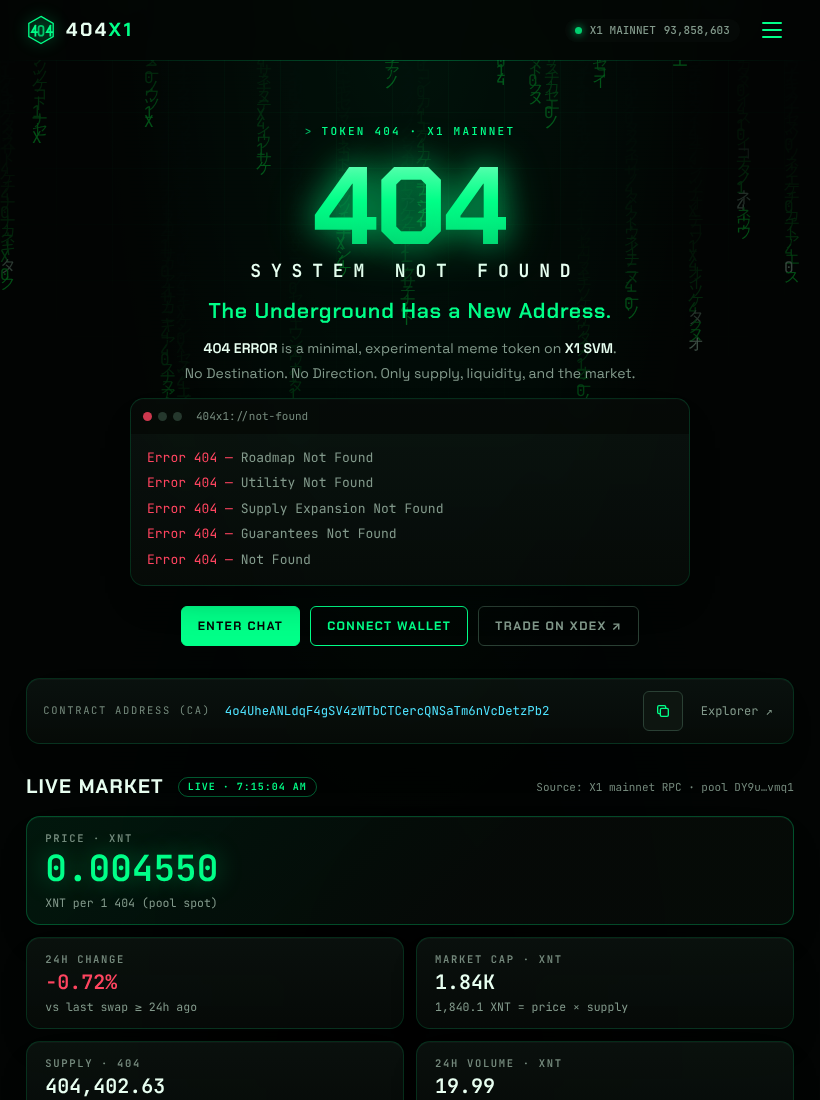
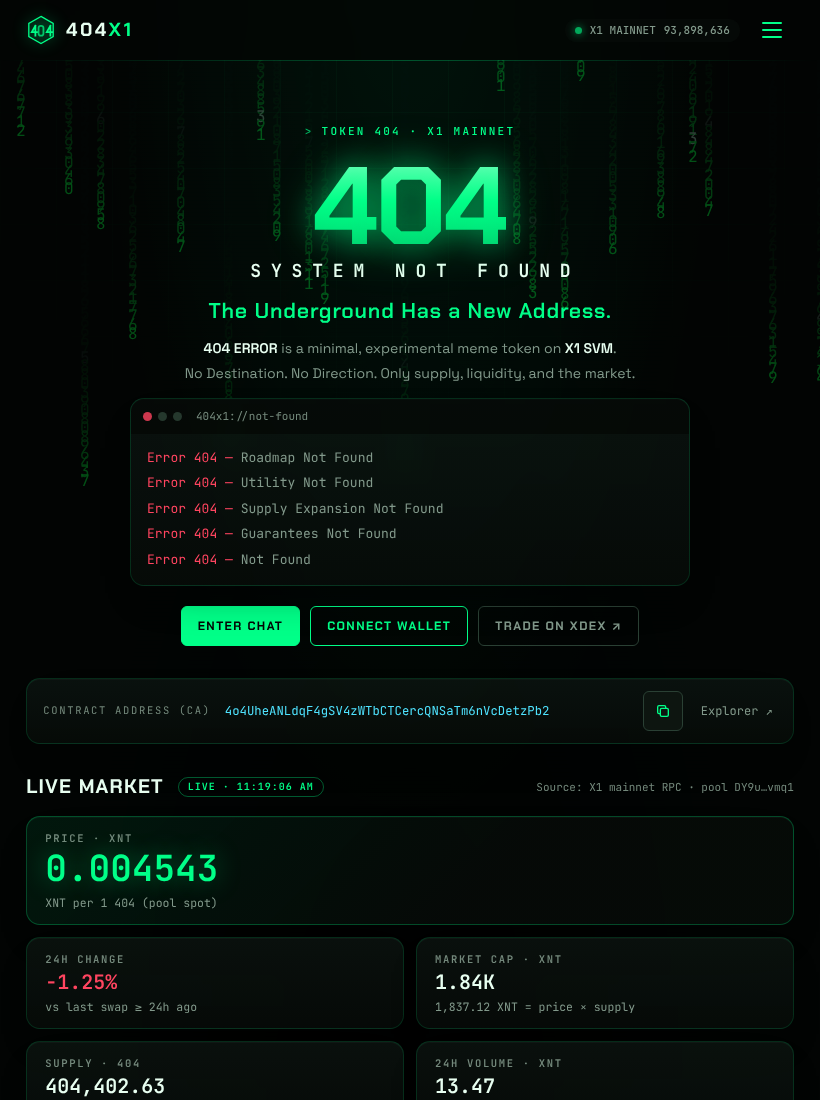
Matrix rain: English numerals 0-9 only; guard chart resize after unmount
- Rain glyphs now exclusively 0123456789, randomized per column step
- Colors, glow, opacity, speed, density, fps cap, reduced-motion unchanged
- Add rain glyph unit tests
- PriceChart: null-guard ResizeObserver callback (intermittent error found by responsive suite)

Claude-Session: https://claude.ai/code/session_01Ec5YrfoHXkQx3fjewP7eCL

diff --git a/tests/rain.test.js b/tests/rain.test.js
@@ -1,0 +1,14 @@
+import { describe, it, expect } from 'vitest';
+import { RAIN_GLYPHS, randomGlyph } from '../src/lib/rainGlyphs.js';
+describe('matrix rain glyphs', () => {
+  it('contains exactly the English numerals 0-9', () => expect(RAIN_GLYPHS).toBe('0123456789'));
+  it('every random glyph is a single digit, and all digits occur', () => {
+    const seen = new Set();
+    for (let i = 0; i < 5000; i++) { const g = randomGlyph(); expect(g).toMatch(/^[0-9]$/); seen.add(g); }
+    expect(seen.size).toBe(10);
+  });
+  it('rain source contains no non-ASCII glyph literals', async () => {
+    const { readFileSync } = await import('node:fs');
+    expect(readFileSync(new URL('../src/components/MatrixRain.jsx', import.meta.url), 'utf8')).not.toMatch(/[^\x00-\x7F]/);
+  });
+});

diff --git a/src/components/chart/PriceChart.jsx b/src/components/chart/PriceChart.jsx
@@ -35,7 +35,7 @@ export default function PriceChart({ trades, tf, showVol, onHover }) {
         onHoverRef.current?.({ o: d.open, h: d.high, l: d.low, c: d.close, v: c?.volume ?? 0, trades: c?.trades ?? 0 });
       } else onHoverRef.current?.(null);
     });
-    const ro = new ResizeObserver(() => chart.applyOptions({ width: el.current.clientWidth, height: el.current.clientHeight }));
+    const ro = new ResizeObserver(() => { const node = el.current; if (node) chart.applyOptions({ width: node.clientWidth, height: node.clientHeight }); }); // guard: may fire after unmount
     ro.observe(el.current);
     return () => { ro.disconnect(); chart.remove(); chartRef.current = candleRef.current = volRef.current = null; };
   }, []);

diff --git a/src/components/MatrixRain.jsx b/src/components/MatrixRain.jsx
@@ -1,6 +1,6 @@
 import React, { useEffect, useRef } from 'react';
+import { randomGlyph } from '@/lib/rainGlyphs';
 
-const GLYPHS = '01アイウエオカキクケコサシスセソタチツテトナニヌネノ404X1';
 
 /**
  * Lightweight procedural Matrix code rain on one <canvas>.
@@ -35,7 +35,7 @@ export default function MatrixRain() {
       for (let i = 0; i < cols; i++) {
         const x = i * size * step, y = drops[i] * size;
         ctx.fillStyle = Math.random() > 0.97 ? '#c8ffe2' : '#00ff41';
-        ctx.fillText(GLYPHS[(Math.random() * GLYPHS.length) | 0], x, y);
+        ctx.fillText(randomGlyph(), x, y);
         if (y > h && Math.random() > 0.975) drops[i] = 0; else drops[i] += 0.55;
       }
     };

diff --git a/src/lib/rainGlyphs.js b/src/lib/rainGlyphs.js
@@ -1,0 +1,3 @@
+// Characters allowed in the Matrix rain: English numerals only.
+export const RAIN_GLYPHS = '0123456789';
+export const randomGlyph = (rnd = Math.random) => RAIN_GLYPHS[Math.floor(rnd() * RAIN_GLYPHS.length)];
